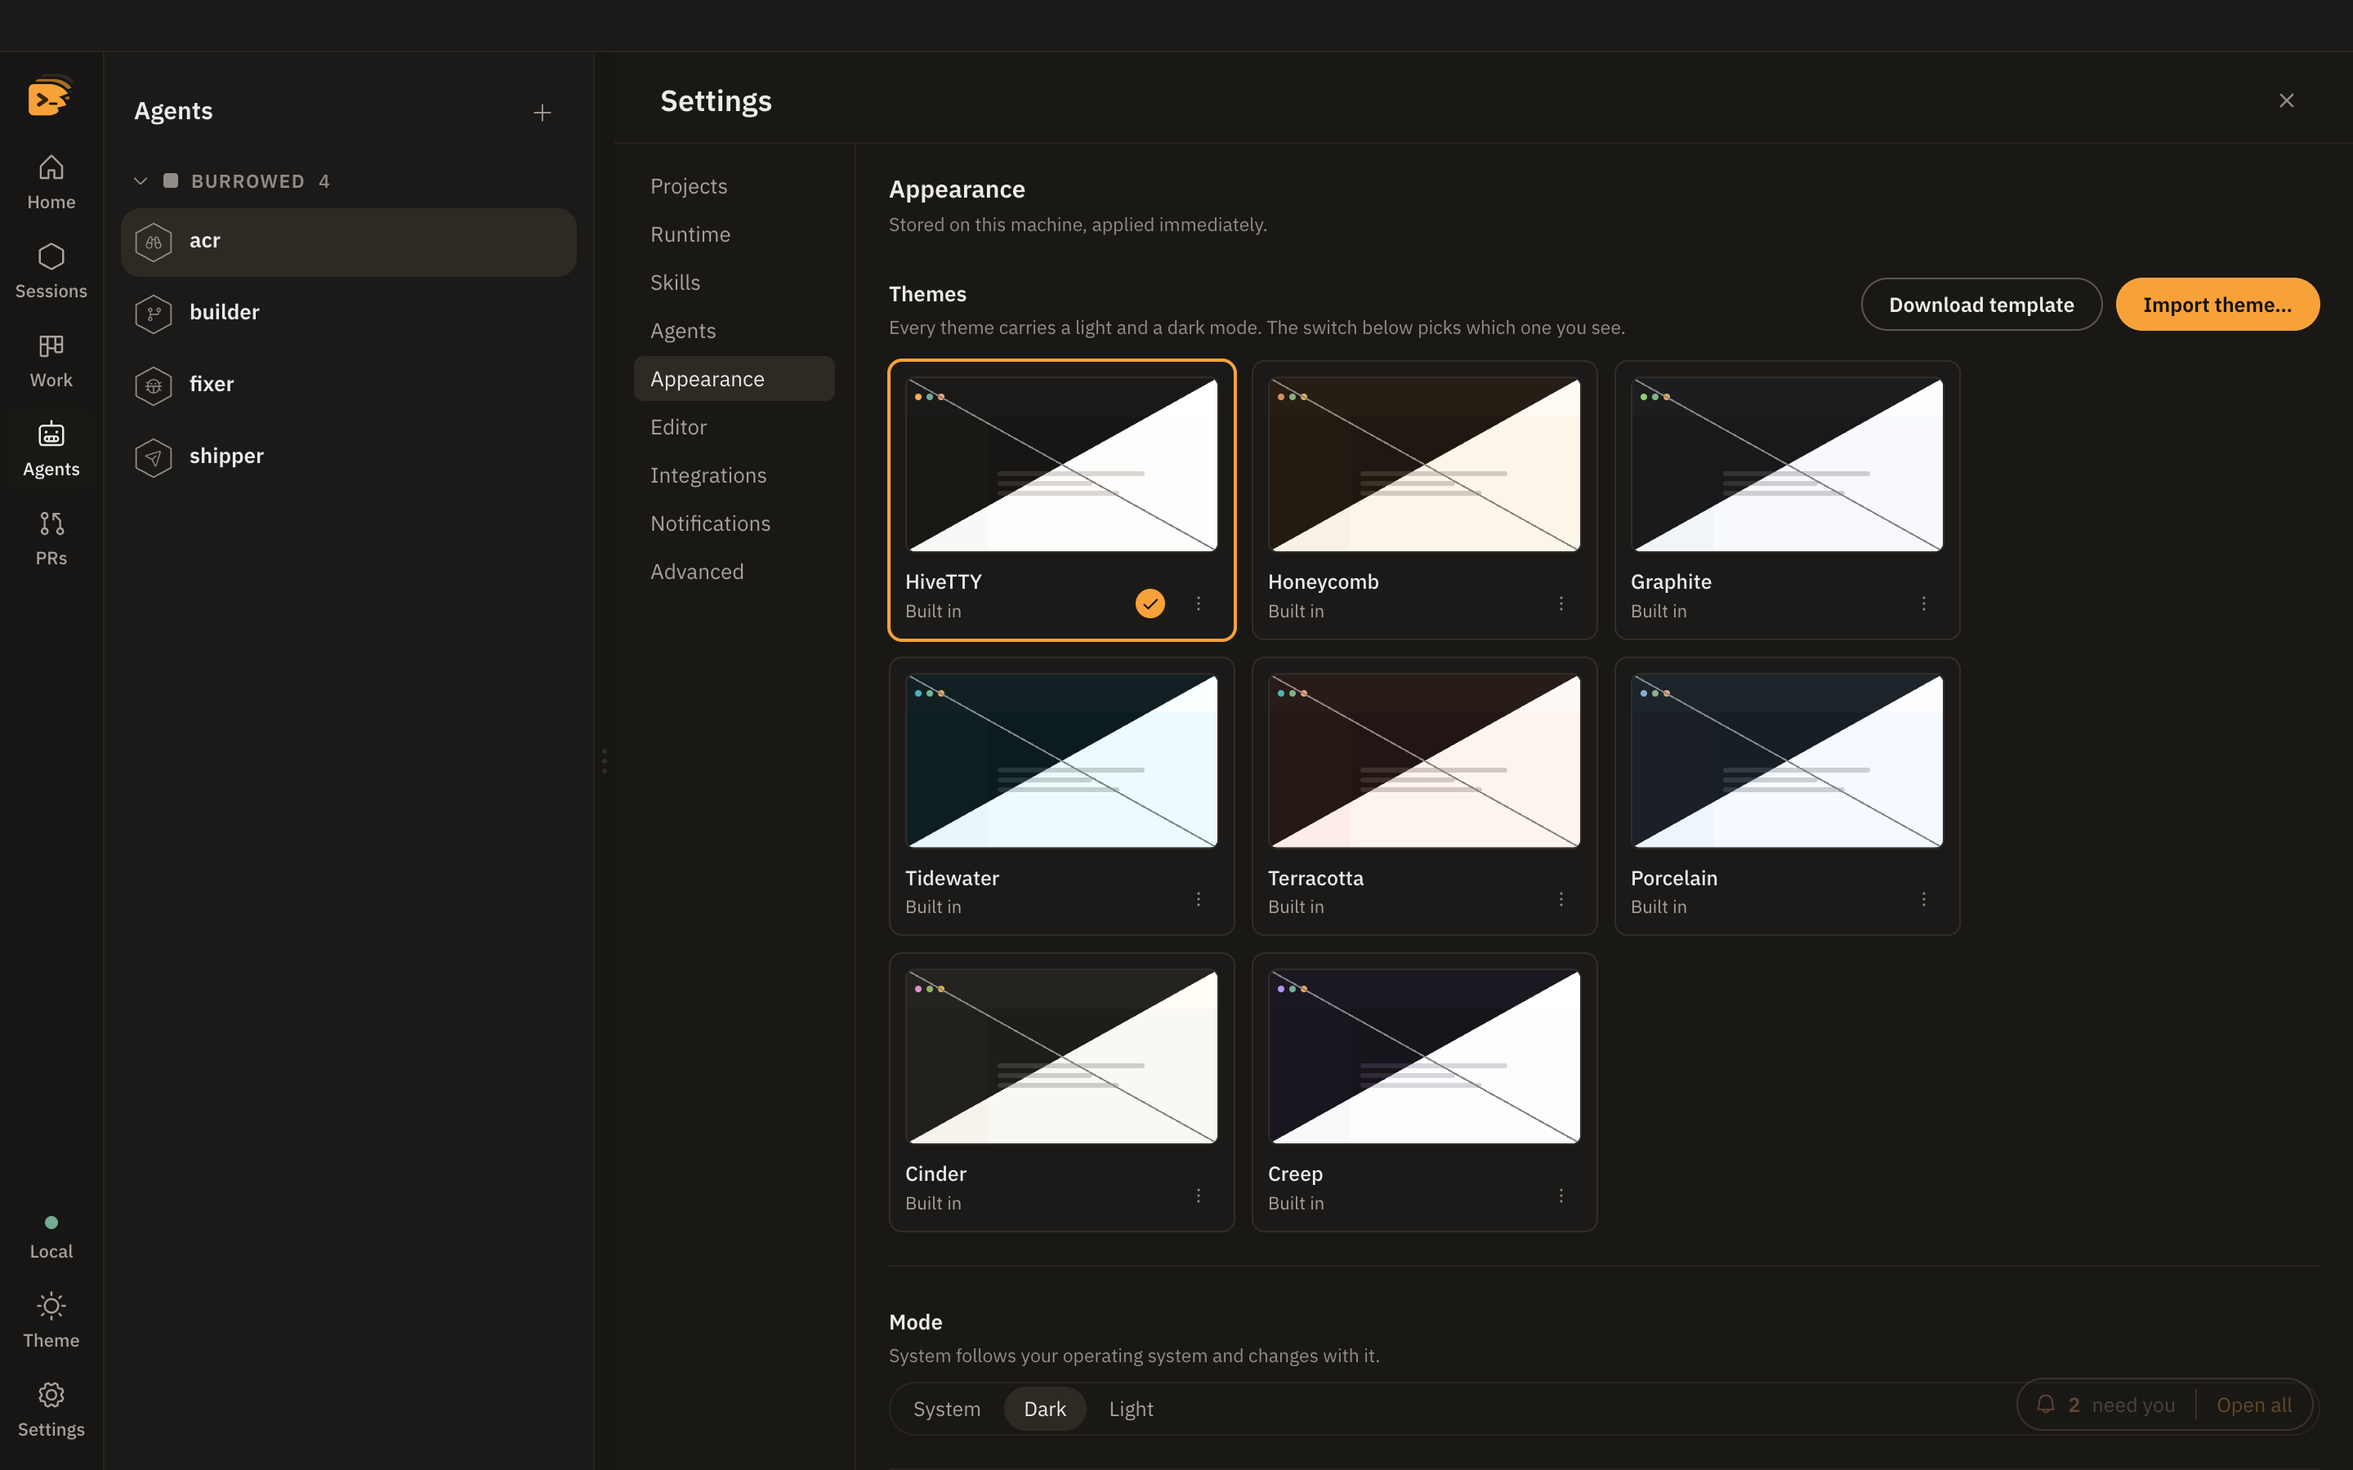
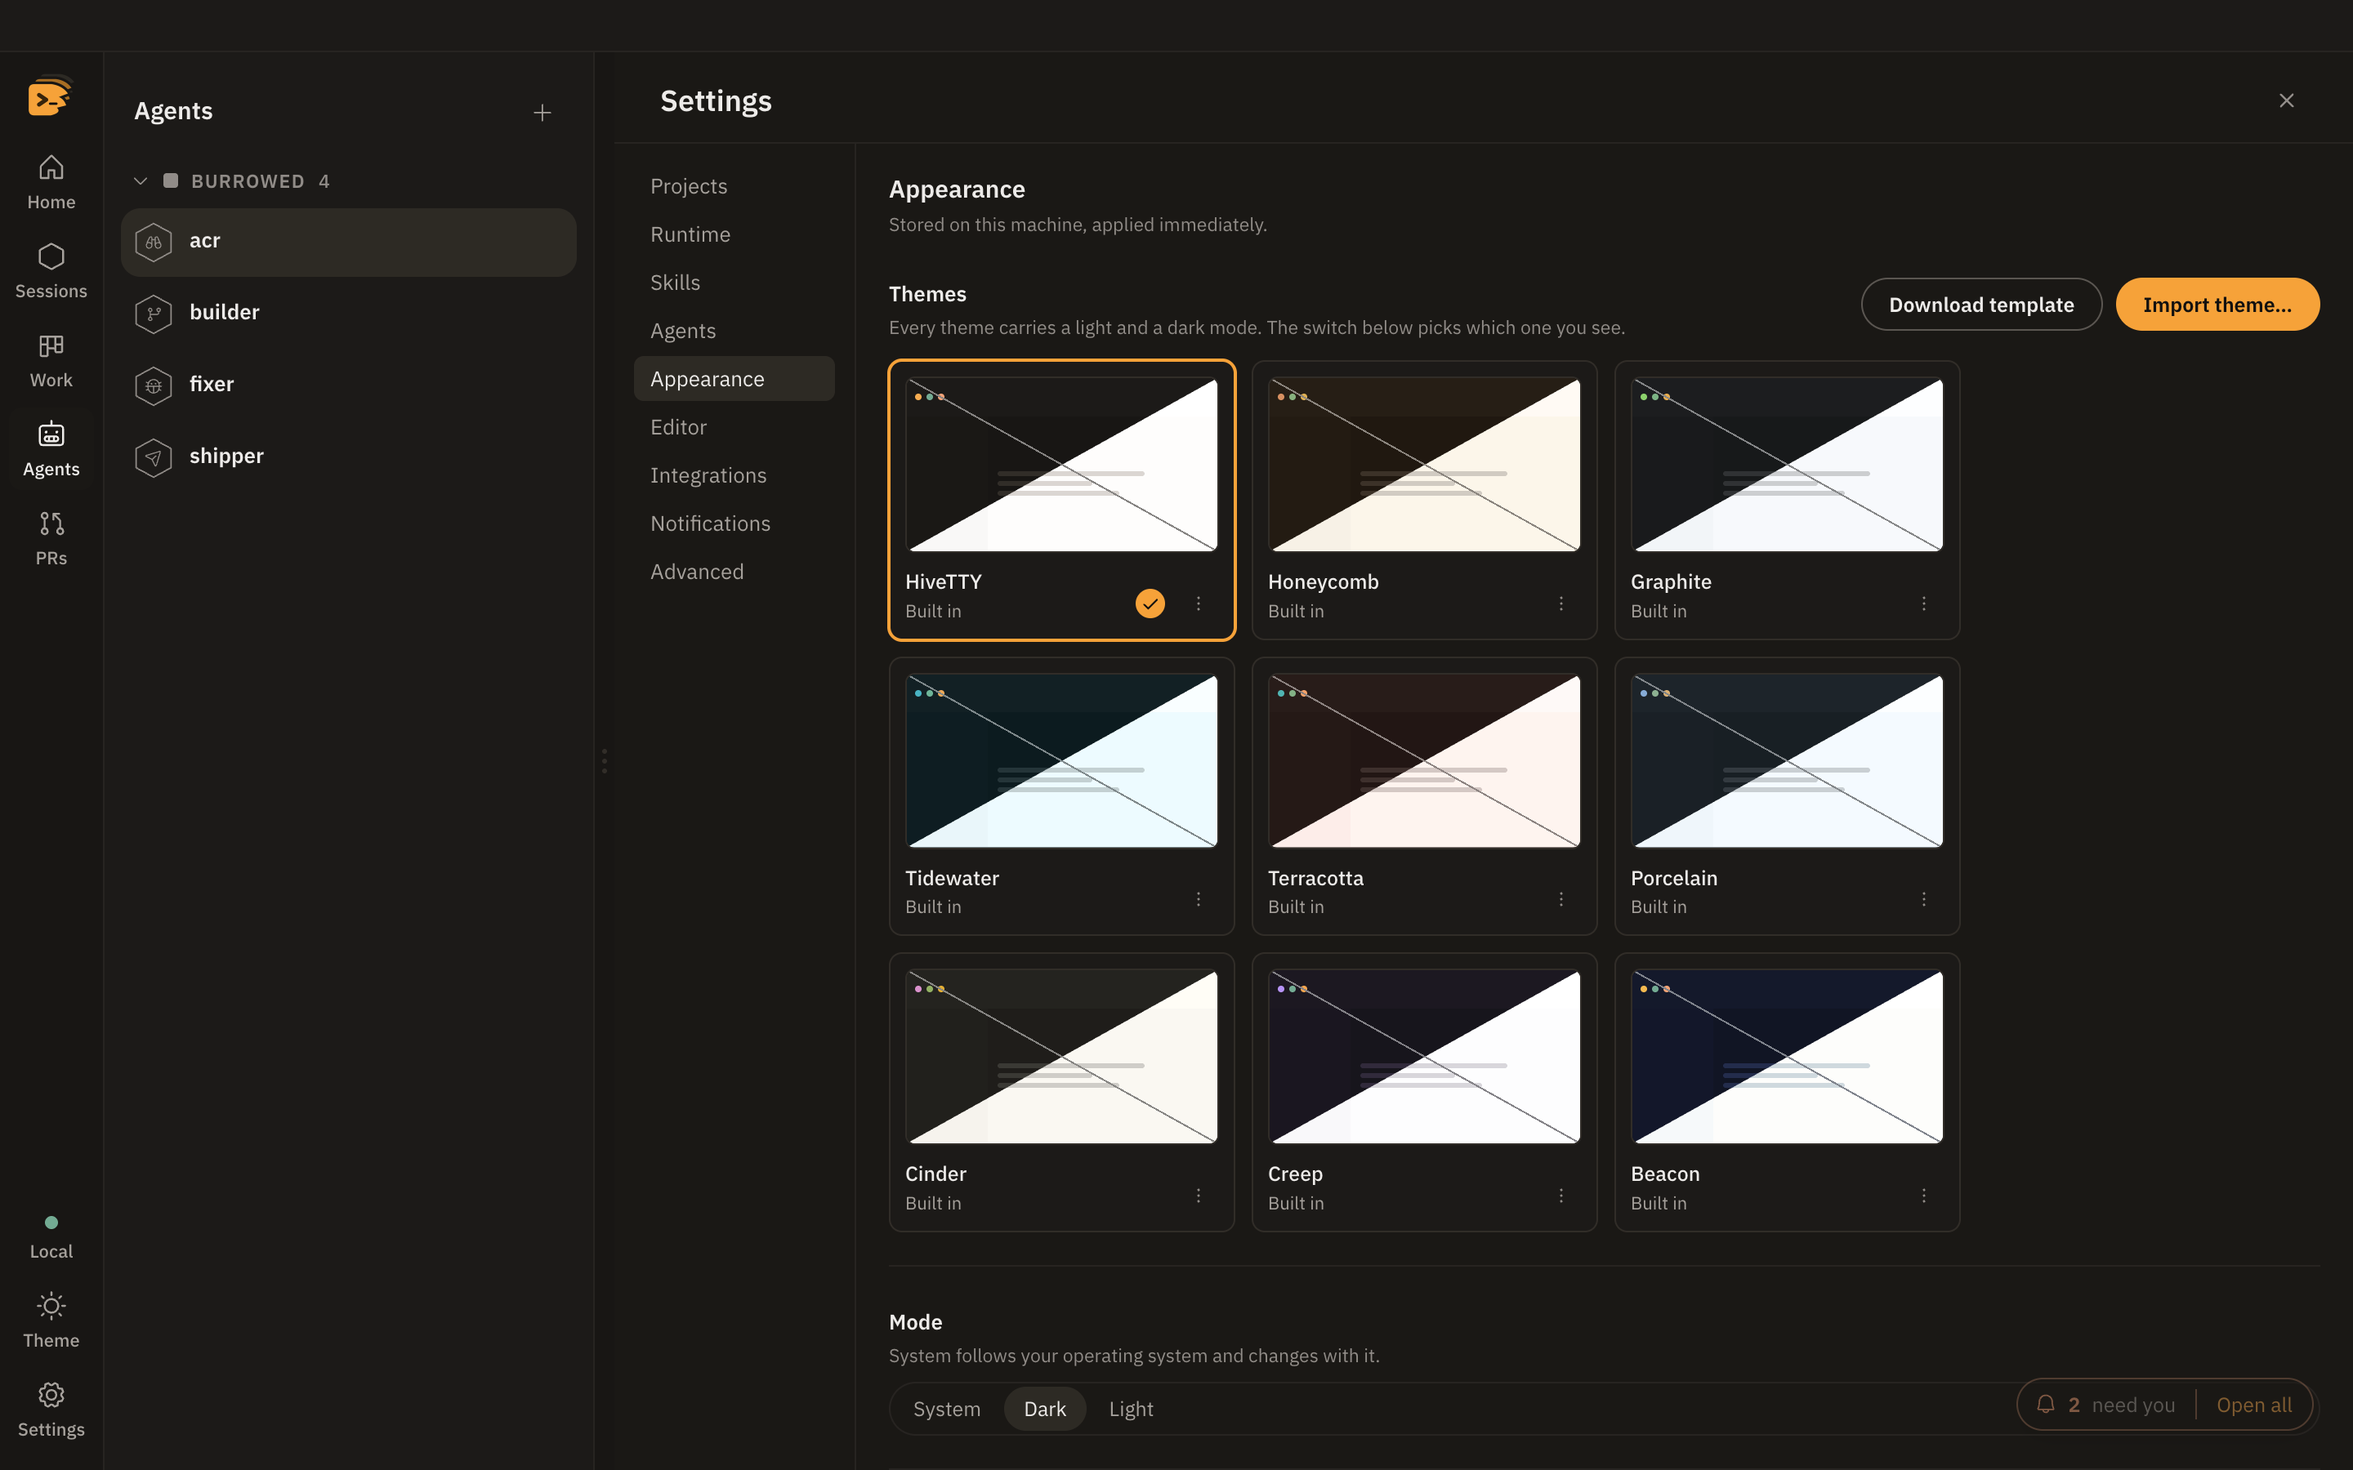
HIVE-241: Beacon, the ninth built-in theme (#118)
* feat(theme): Beacon, Hive navy with signal gold, ships as the ninth built-in (HIVE-241)

* docs: nine built-in themes, Beacon last (HIVE-241)

* chore: built-in counts and brand contrast notes follow Beacon (HIVE-241)

* docs: retake the theme gallery shot with Beacon (HIVE-241)

* docs: correct stale contrast ratios and theme counts after Beacon (HIVE-241)

Comment/doc-only: worst brand contrast is 5.43:1 on panel and 5.06:1 on
panel-2 (Graphite light); nine built-ins, eight beside HiveTTY.

---------

Changed region(s): [[0.6875, 0.6533, 0.8438, 0.8089]]

diff --git a/src/lib/theme/built-in-themes.ts b/src/lib/theme/built-in-themes.ts
@@ -16,7 +16,7 @@ import {
  * in the stylesheet would have no `--cc-*` block to be compared against, and
  * the drift test would have to learn which declarations belong to which theme.
  *
- * So these seven paint the way an *imported* theme paints — through
+ * So these eight paint the way an *imported* theme paints — through
  * `applyThemeColors`, which writes a `<style>` element at runtime. The only
  * thing that makes them "built in" is that they ship in the bundle and cannot
  * be removed from the library. {@link activeThemeOf} keeps returning `null`
@@ -499,6 +499,72 @@ const CREEP_THEME: HiveTheme = {
   },
 };
 
+/** Hive navy kept, the blue brand swapped for signal gold. */
+const BEACON_THEME: HiveTheme = {
+  hiveThemeVersion: HIVE_THEME_VERSION,
+  name: 'Beacon',
+  author: 'Built in',
+  version: '1.0.0',
+  modes: {
+    dark: {
+      ui: {
+        bg: '#10152a', panel: '#141a33', panel2: '#121731',
+        hover: '#1b2344', active: '#222c55',
+        border: '#273159', borderSoft: '#1e2747',
+        ink: '#e9effc', muted: '#9faad0', subtle: '#8d97b8',
+        brand: '#fbc044', green: '#74b79c', amber: '#fea979', red: '#ff8d85',
+        chip: '#1c2648', chipHover: '#232e57',
+        termBg: '#0b1023', termInput: '#0e1430',
+        termRowHover: '#161f45', termRowActive: '#1a2450',
+        termHead: '#8590b0', termTrack: '#3a4674',
+        brandFill: '#f0b21b', brandFillHover: '#e4a70b',
+        brandFillStrong: '#b38309', onBrand: '#10152a', dangerSolid: '#d3372f',
+        onDanger: '#ffffff',
+      },
+      syntax: {
+        keyword: '#b39ff0', string: '#74b79c', number: '#fea979',
+        comment: '#6b779f', name: '#fbc044', type: '#7fd0e0',
+        operator: '#98a3cc', constant: '#ff8d85', invalid: '#ff8d85',
+        activeLine: '#202b50', selection: '#48391b',
+      },
+      terminal: {
+        bg: '#0b1023', ink: '#dbe4ff', dim: '#7c88b8', black: '#0b1023',
+        green: '#7ee2b8', blue: '#8fb5ff', amber: '#ffbd98', red: '#ff8d85',
+        cyan: '#7edce2', magenta: '#7edce2', selection: '#3c2d0f',
+        surface: '#0e1430', surfaceAlt: '#1b2344',
+      },
+    },
+    light: {
+      ui: {
+        bg: '#fdfdfb', panel: '#ffffff', panel2: '#f7fafb',
+        hover: '#f4f9ff', active: '#e9f3fc',
+        border: '#d4dee3', borderSoft: '#edf2f4',
+        ink: '#2c2f34', muted: '#5a5d63', subtle: '#686d73',
+        brand: '#876204', green: '#2e6b52', amber: '#b05307', red: '#cd332b',
+        chip: '#edf2f4', chipHover: '#e2eaee',
+        termBg: '#f7fafb', termInput: '#ffffff',
+        termRowHover: '#eef4f9', termRowActive: '#e4edf5',
+        termHead: '#686b71', termTrack: '#d4dee3',
+        brandFill: '#f0b21b', brandFillHover: '#e4a70b',
+        brandFillStrong: '#b38309', onBrand: '#10152a', dangerSolid: '#d3372f',
+        onDanger: '#ffffff',
+      },
+      syntax: {
+        keyword: '#6f42c1', string: '#2e6b52', number: '#a2531f',
+        comment: '#8b9199', name: '#876204', type: '#0b6b7d',
+        operator: '#707379', constant: '#b3271f', invalid: '#d3372f',
+        activeLine: '#eef7ff', selection: '#f5ddb4',
+      },
+      terminal: {
+        bg: '#f7fafb', ink: '#2c2f34', dim: '#686b71', black: '#2c2f34',
+        green: '#2e6b52', blue: '#334fa9', amber: '#a2531f', red: '#b3271f',
+        cyan: '#0b6b7d', magenta: '#6f42c1', selection: '#f1debb',
+        surface: '#ffffff', surfaceAlt: '#edf2f4',
+      },
+    },
+  },
+};
+
 /**
  * Every theme that ships in the bundle, keyed by the id the gallery and
  * `activeThemeId` use.
@@ -517,6 +583,7 @@ export const BUILT_IN_THEMES: Readonly<Record<string, HiveTheme>> = {
   porcelain: PORCELAIN_THEME,
   cinder: CINDER_THEME,
   creep: CREEP_THEME,
+  beacon: BEACON_THEME,
 };
 
 /**

diff --git a/tests/lib/theme/built-in-themes.test.ts b/tests/lib/theme/built-in-themes.test.ts
@@ -14,7 +14,7 @@ import {
 import { contrastRatio, importTheme, isHiveTheme } from '@lib/theme/validate';
 import { TOKENS_CSS } from '@tests/support/css-tokens';
 
-/** The seven that ship beside HiveTTY, in gallery order. */
+/** The eight that ship beside HiveTTY, in gallery order. */
 const SHIPPED = [
   'honeycomb',
   'graphite',
@@ -23,10 +23,11 @@ const SHIPPED = [
   'porcelain',
   'cinder',
   'creep',
+  'beacon',
 ] as const;
 
 describe('the shipped set', () => {
-  it('is HiveTTY plus seven, in that order', () => {
+  it('is HiveTTY plus eight, in that order', () => {
     expect(Object.keys(BUILT_IN_THEMES)).toEqual([
       BUILT_IN_THEME_ID,
       ...SHIPPED,
@@ -63,7 +64,7 @@ describe('the shipped set', () => {
    * palette — so if a second theme's colours ever leak into `tokens.css`, this
    * fails here rather than quietly making the drift test ambiguous.
    */
-  it('keeps the seven out of tokens.css', () => {
+  it('keeps the eight out of tokens.css', () => {
     for (const id of SHIPPED) {
       const { bg, brand } = BUILT_IN_THEMES[id].modes.dark.ui;
       expect(TOKENS_CSS, `${id} bg`).not.toContain(bg);
@@ -123,7 +124,7 @@ describe.each(SHIPPED)('%s', (id) => {
       /*
         `brand` joined the floor with the hierarchy pass: it names every project
         in the rail and every provider in Integrations, both on `panel`, which
-        is body text rather than an accent. The worst built-in is 5.15:1.
+        is body text rather than an accent. The worst built-in is 5.43:1.
       */
       expect(contrastRatio(ui.brand, ui.panel)).toBeGreaterThanOrEqual(4.5);
     });
@@ -207,7 +208,7 @@ describe('text tokens clear AA (HIVE-223)', () => {
  * (`editor-theme.ts`). The active line is mixed down to 35% and is not a ground.
  * Only the themes added with the rule are held to it; the older ones predate it.
  */
-describe.each(['hivetty', 'creep'])('%s comments', (id) => {
+describe.each(['hivetty', 'creep', 'beacon'])('%s comments', (id) => {
   it.each(THEME_MODES)('clear 3:1 on the editor ground in %s mode', (mode) => {
     const { ui, syntax } = BUILT_IN_THEMES[id]!.modes[mode];
     expect(contrastRatio(syntax.comment, ui.panel2)).toBeGreaterThanOrEqual(3);

diff --git a/src/lib/theme/validate.ts b/src/lib/theme/validate.ts
@@ -437,8 +437,8 @@ export function importTheme(raw: string, fileName: string): ImportResult {
      * rail and every provider in Integrations, on `panel` in both cases, which
      * is a paragraph's worth of reading rather than a highlight.
      *
-     * All seven built-ins clear it comfortably — 5.15:1 at worst (Graphite
-     * light), 9.72:1 at best — so this cannot fire on the app's own themes, and
+     * All nine built-ins clear it comfortably — 5.43:1 at worst (Graphite
+     * light), 10.39:1 at best — so this cannot fire on the app's own themes, and
      * unlike the `onBrand`/`brandFill` pair below there is nothing to move
      * first. An imported theme is the case it exists for: nothing stops one
      * shipping a brand that vanishes into its own panel, and before this the
@@ -455,7 +455,7 @@ export function importTheme(raw: string, fileName: string): ImportResult {
      * surface further along. `ink` is already checked against two grounds for
      * the same reason.
      *
-     * Every built-in clears it; the worst is 4.80:1 (Graphite light).
+     * Every built-in clears it; the worst is 5.06:1 (Graphite light).
      */
     checkContrast(notes, mode, 'brand', ui.brand, 'panel2', ui.panel2, 4.5);
     /**

diff --git a/tests/e2e/electron/guide-shots.spec.ts b/tests/e2e/electron/guide-shots.spec.ts
@@ -189,7 +189,7 @@ test('guide shots', async ({}, testInfo) => {
   await expect(page.getByRole('main').getByRole('radio', { name: 'Activity' })).toBeVisible();
   await shot(page, '10-agent-view.png');
 
-  // 12: Settings › Appearance, the gallery's eight cards with HiveTTY first and active (HIVE-241).
+  // 12: Settings › Appearance, the gallery's nine cards with HiveTTY first and active (HIVE-241).
   await page.getByRole('navigation', { name: 'Places' }).getByRole('button', { name: 'Settings', exact: true }).click();
   await page
     .getByRole('navigation', { name: 'Settings sections' })
@@ -197,6 +197,7 @@ test('guide shots', async ({}, testInfo) => {
     .click();
   await expect(page.getByRole('button', { name: 'HiveTTY Built in' })).toHaveAttribute('aria-pressed', 'true');
   await expect(page.getByRole('button', { name: 'Creep Built in' })).toBeVisible();
+  await expect(page.getByRole('button', { name: 'Beacon Built in' })).toBeVisible();
   await shot(page, '12-settings-appearance.png');
 
   // 22: Home in the HiveTTY theme's light mode.

diff --git a/tests/e2e/web/appearance.spec.ts b/tests/e2e/web/appearance.spec.ts
@@ -127,13 +127,13 @@ test('changing the terminal font resizes the terminal without destroying it', as
  * The shipped theme set.
  *
  * A unit test can prove the store resolves an id and that the gallery renders
- * eight cards. It cannot prove the app actually *repaints* — that lives in a
+ * nine cards. It cannot prove the app actually *repaints* — that lives in a
  * `<style>` element written at runtime, resolved by the real cascade against
  * `tokens.css`, and read back off a computed style. happy-dom has no cascade
  * to lose the fight in, which is exactly the bug `apply.ts` documents.
  */
 const SHIPPED = [
-  'Honeycomb', 'Graphite', 'Tidewater', 'Terracotta', 'Porcelain', 'Cinder', 'Creep',
+  'Honeycomb', 'Graphite', 'Tidewater', 'Terracotta', 'Porcelain', 'Cinder', 'Creep', 'Beacon',
 ];
 
 test('every shipped theme has a card, and only HiveTTY has no style element', async ({

diff --git a/tests/stores/appearance-store.test.ts b/tests/stores/appearance-store.test.ts
@@ -592,7 +592,7 @@ describe('the theme library', () => {
 });
 
 /**
- * The seven that ship beside HiveTTY.
+ * The eight that ship beside HiveTTY.
  *
  * The distinction that matters here is which of them `activeThemeOf` answers
  * `null` for. `null` means *the stylesheet already is this palette* — true of
@@ -601,7 +601,7 @@ describe('the theme library', () => {
  * under another theme's name.
  */
 describe('the shipped themes beside HiveTTY', () => {
-  const SHIPPED = ['honeycomb', 'graphite', 'tidewater', 'terracotta', 'porcelain', 'cinder', 'creep'];
+  const SHIPPED = ['honeycomb', 'graphite', 'tidewater', 'terracotta', 'porcelain', 'cinder', 'creep', 'beacon'];
 
   it('resolves HiveTTY to null — the stylesheet is already that palette', () => {
     useAppearanceStore.getState().activateTheme('hivetty');

diff --git a/tests/lib/theme/validate.test.ts b/tests/lib/theme/validate.test.ts
@@ -549,7 +549,7 @@ describe('contrast', () => {
    *
    * The case this exists for is an imported theme: nothing stops one shipping a
    * brand that vanishes into its own panel, and before this the format had no
-   * way to say so. All seven built-ins clear it, 5.15:1 at worst.
+   * way to say so. All nine built-ins clear it, 5.43:1 at worst.
    */
   it('notes a brand that disappears into its own panel', () => {
     const modes = structuredClone(BUILT_IN_THEME.modes) as Record<string, any>;

diff --git a/tests/features/settings/components/theme-gallery.test.tsx b/tests/features/settings/components/theme-gallery.test.tsx
@@ -207,7 +207,7 @@ describe('ThemeGallery', () => {
     await userEvent.click(screen.getByRole('button', { name: 'Import theme…' }));
     await screen.findByText('Nord imported and activated');
 
-    // By name, not by index: the gallery ships eight built-ins and an
+    // By name, not by index: the gallery ships nine built-ins and an
     // index would silently follow whichever one sorts into that slot.
     await userEvent.click(
       screen.getByRole('button', { name: 'Nord actions' }),

diff --git a/.claude/DESIGN-SYSTEM.md b/.claude/DESIGN-SYSTEM.md
@@ -315,8 +315,8 @@ Because `brand` is now body text rather than an accent, `validate.ts` measures
 it: **`brand` below 4.5:1 is a note at import time**, alongside the `ink` checks.
 Against *both* grounds brand text actually sits on — `panel` for the list panel,
 `panel-2` for the settings dialog — for the same reason `ink` is checked against
-`panel` and `bg`. All seven built-ins clear both: 5.15:1 at worst on `panel`
-(Graphite light), 4.80:1 at worst on `panel-2` (Graphite light again).
+`panel` and `bg`. All nine built-ins clear both: 5.43:1 at worst on `panel`
+(Graphite light), 5.06:1 at worst on `panel-2` (Graphite light again).
 
 ## Status → colour
 

diff --git a/docs/guide/themes.md b/docs/guide/themes.md
@@ -9,8 +9,8 @@ light and a dark mode. The sun or moon at the foot of the bar switches between t
 
 ## Pick a theme
 
-**Settings › Appearance › Themes**. Eight ship with the app: HiveTTY, Honeycomb, Graphite,
-Tidewater, Terracotta, Porcelain, Cinder and Creep. Click a card to use it. The
+**Settings › Appearance › Themes**. Nine ship with the app: HiveTTY, Honeycomb, Graphite,
+Tidewater, Terracotta, Porcelain, Cinder, Creep and Beacon. Click a card to use it. The
 card menu has **Export…** and, for imported themes, **Remove**.
 
 ![Settings › Appearance: the theme gallery](../assets/guide/12-settings-appearance.png)
